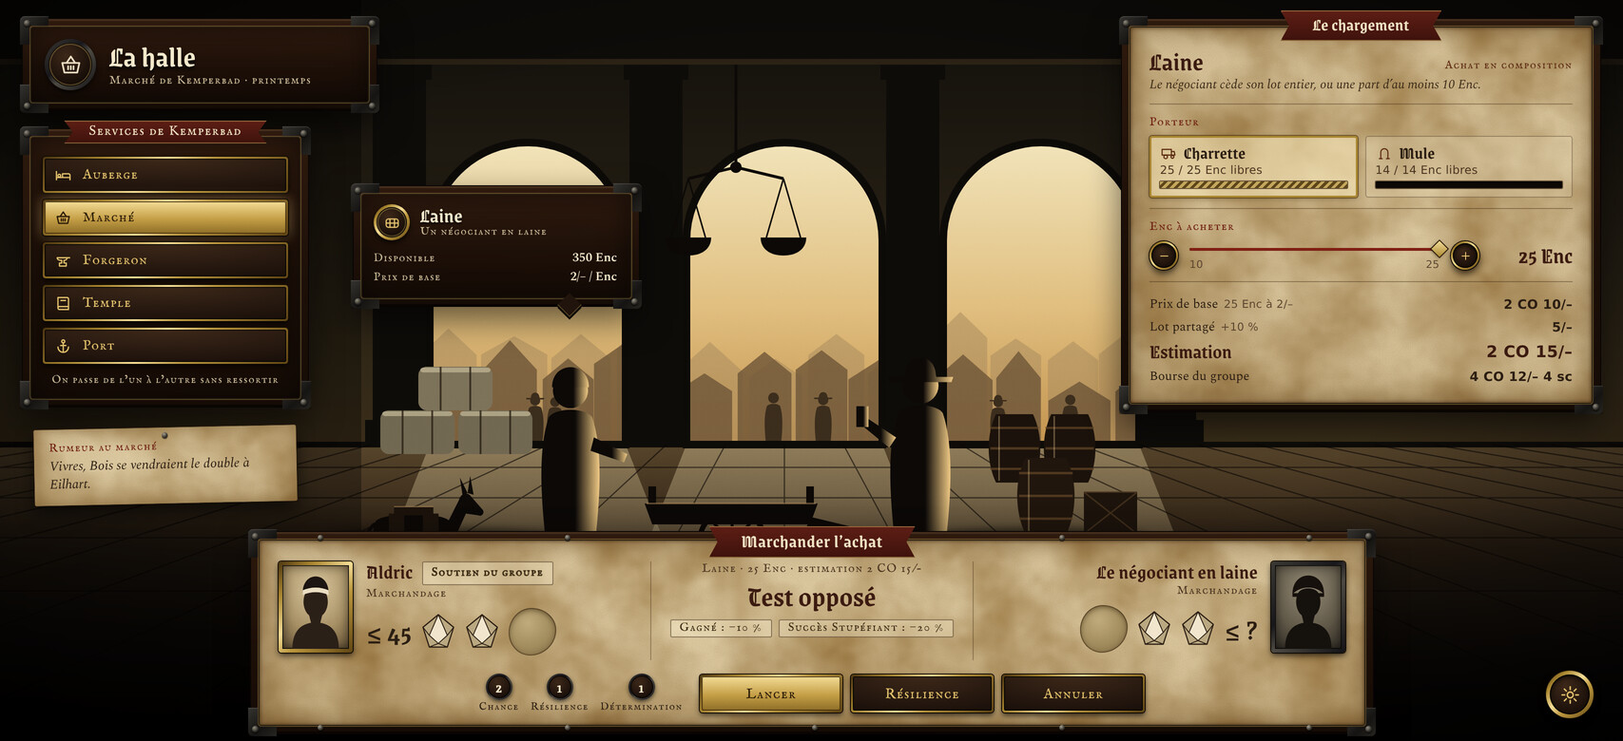
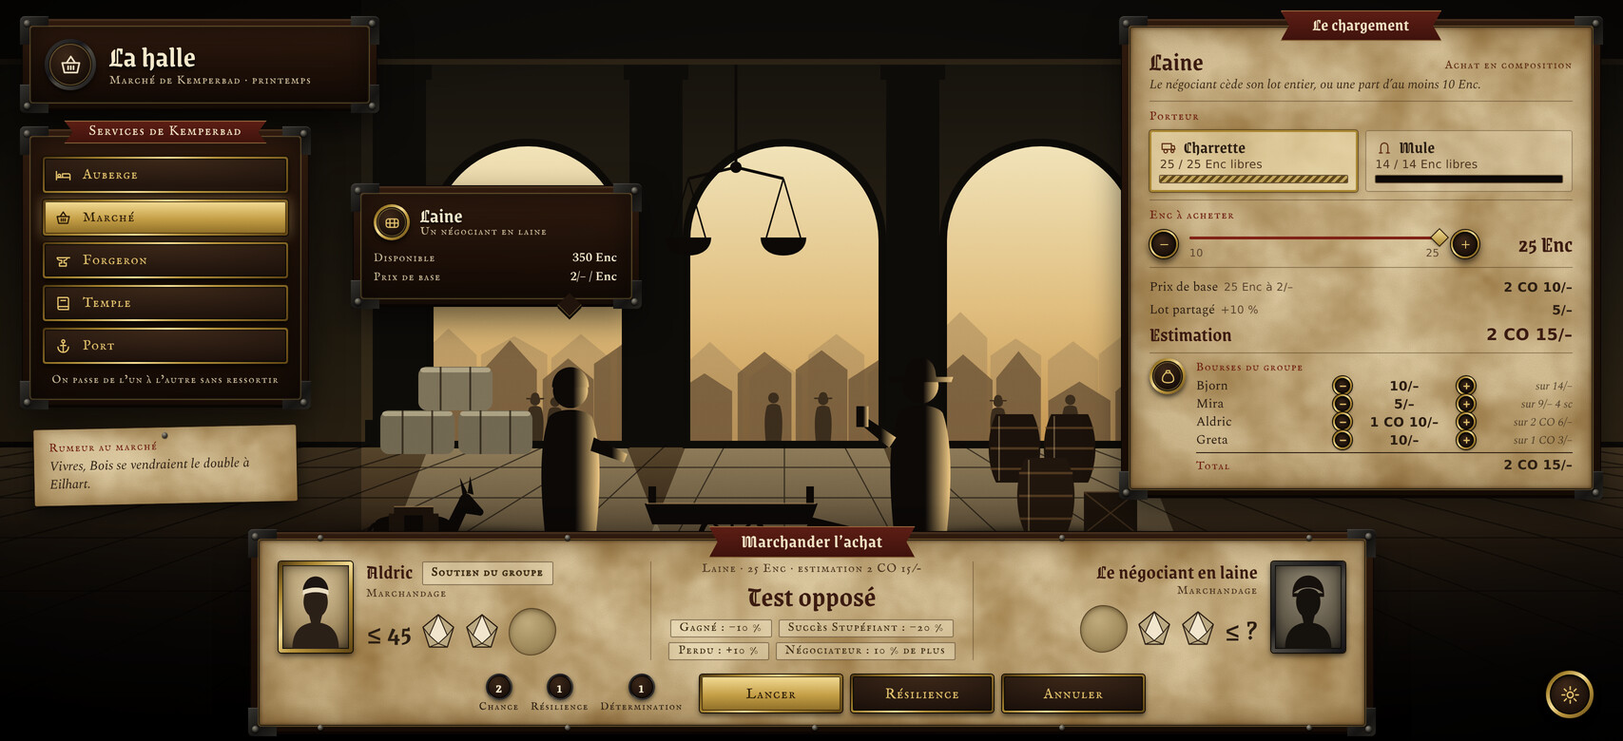
fix(godot): maquettes exploration, lieux et commerce alignées sur la règle et la bourse (refs #4411)
Claude-Session: https://claude.ai/code/session_01319Eij4YBDVrTGQVfomn4e

Changed region(s): [[0.6831, 0.1538, 0.9936, 0.7077], [0.4036, 0.8615, 0.5899, 0.8923]]

diff --git a/hotes/godot/cibles/propositions/sources/lieux-et-nuit/bivouac.js b/hotes/godot/cibles/propositions/sources/lieux-et-nuit/bivouac.js
@@ -1,4 +1,4 @@
-/* Le bivouac : la halte du soir en voyage. Chaque héros se pose sur un poste de la clairière. */
+/* Le bivouac : la halte du soir en voyage. Chaque héros règle son couchage et sa nourriture sur sa carte du bandeau. */
 rims('#e09a48', '#0b0806');
 grad('ciel', [[0, '#070a18'], [.38, '#121a3c'], [.74, '#2c3566'], [1, '#575a8c']]);
 grad('sol', [[0, '#24253a'], [.35, '#17161f'], [1, '#07060a']]);
@@ -70,7 +70,7 @@ el(G, 'path', { d: 'M632,580c10,0 14,6 14,14l-2,6l-14,0z', fill: '#a06a38' });
 el(G, 'ellipse', { cx: 556, cy: 586, rx: 11, ry: 8, fill: '#6a5038' });
 el(G, 'path', { d: 'M985,590L985,516M962,534L1008,534M985,516a9,9 0 1 0 .1,0', stroke: '#1a100a', 'stroke-width': 7, 'stroke-linecap': 'round', fill: '#1a100a' });
 el(G, 'path', { d: 'M981,590L981,520M962,531L984,531', stroke: '#c98a48', 'stroke-width': 1.6, opacity: .8 });
-// les héros à leur poste
+// les héros dans la clairière
 perso(G, 110, 566, 72, { pose: 'accroupi', coiffe: 'bonnet', fill: '#1b2242', vers: -1, extra: '<path d="M-26,0C-40,-8 -48,-22 -44,-40" stroke="#1b2242" stroke-width="2.500" fill="none"/>' });
 perso(G, 272, 414, 62, { coiffe: 'capuche', fill: '#080a14' });
 el(G, 'ellipse', { cx: 770, cy: 592, rx: 40, ry: 7, fill: '#000', opacity: .5, filter: 'url(#f2)' });
@@ -86,41 +86,18 @@ el(S, 'rect', { width: 520, height: 260, fill: 'url(#haut)', opacity: .5 });
 
 const pieces = [];
 pieces.push(titre({ icone: 'lune', nom: 'La halte du soir', sous: `14 Pflugzeit · troisième nuit · ${picto('flocon', 13, '#c9b995')} ciel clair, gel`, largeur: 436 }));
-pieces.push(`<div id="recit" data-piece="recit"><div class="r rubrique ombre">Dans le Reikwald, à l’écart du chemin</div><p class="ombre">La clairière est sèche et le bois mort ne manque pas. Reste à dire qui veille, qui chasse et qui dort.</p></div>`);
-const POSTES = [
-  [110, 400, { nom: 'Approvisionnement', sous: 'Survie en extérieur', heros: 'bjorn' }],
-  [272, 250, { nom: 'Plein air', sous: 'Survie en extérieur', heros: 'mira' }],
-  [440, 344, { nom: 'Monter un camp', sous: 'Survie ou Guérison', icone: 'tente' }],
-  [598, 476, { nom: 'Récupérer', sous: 'Une nuit de repos', icone: 'sommeil' }],
-  [760, 404, { nom: 'Établir des cartes', sous: 'Cartographe ou Dessin', heros: 'aldric' }],
-  [985, 414, { nom: 'Pratiquer une Compétence', sous: 'Au choix', icone: 'epee' }],
-  [1110, 284, { nom: 'Rester aux aguets', sous: 'Perception', icone: 'oeil', vise: true }],
-  [1222, 378, { nom: 'Recueillir des informations', sous: 'Route déserte', icone: 'bulle', ferme: true }],
-];
-pieces.push(`<div data-piece="postes">${POSTES.map((p) => poste(...p)).join('')}</div>`);
-pieces.push(`<div class="apercu parchemin vers-droite" style="left:748px;top:226px;width:270px;--pointe:74px">
-  <div class="tete"><span class="n gothique">Rester aux aguets</span><span class="c rubrique">Greta</span></div>
-  <table><tr><td>Perception</td><td>≤ 41</td></tr><tr><td>Difficulté</td><td>Intermédiaire</td></tr></table>
-  <div class="pied">Réussie, sa veille garde le groupe de toute surprise pendant l’Étape. Manquée, elle la laisse exténuée.</div>
-</div>`);
+pieces.push(`<div id="recit" data-piece="recit"><div class="r rubrique ombre">Dans le Reikwald, à l’écart du chemin</div><p class="ombre">La clairière est sèche et le bois mort ne manque pas.</p></div>`);
+/* `src/noyau/restFlow.ts:163` (couchage et pitance par héros), `:486-512` ; `docs/regles-optionnelles.md:256` */
 pieces.push(`<div id="camp" class="cadre bois" data-piece="campement"><div class="fond bois">
-  <div class="rang-c"><span class="lab rubrique">Abri</span>${plaque('Tente', { armee: true, icone: 'tente' })}${plaque('Belle étoile', { icone: 'lune' })}</div>
-  <div class="note-c">Quatre dormeurs côte à côte sous la toile.</div>
-  <div class="rang-c"><span class="lab rubrique">Couchage</span><div class="pips"><i></i><i></i><i></i><i class="vide"></i></div><span class="v">3 sacs de couchage <em>pour 4</em></span></div>
-  <div class="rang-c"><span class="lab rubrique">Vivres</span><div class="chiffre">9</div><span class="v">rations <em>· 4 mangées ce soir</em></span></div>
+  <div class="rang-c"><span class="lab rubrique">Abri</span>${medaillon('tente', { petit: true })}<span class="v">Tente <em>· quatre dormeurs sous la toile</em></span></div>
   <div class="rang-c" style="margin-bottom:0"><span class="lab rubrique">Temps</span>${sceau('flocon')}<span class="v">Gel cette nuit : il faudra tenir contre le froid.</span></div>
   <div class="filet"></div>
   <div class="t rubrique">Ce que la nuit jouera</div>
-  <div class="jouera">${pastille('tente')}Le campement<span class="rubrique">Survie en extérieur</span></div>
-  <div class="jouera">${pastille('feu')}Les activités du soir<span class="rubrique">une par héros</span></div>
-  <div class="jouera">${pastille('sommeil')}Le repos<span class="rubrique">Résistance</span></div>
+  <div class="jouera">${pastille('flocon')}Le froid<span class="rubrique">Résistance</span></div>
+  <div class="jouera">${pastille('sommeil')}Le repos<span class="rubrique">une nuit</span></div>
   ${plaque('Passer la nuit', { armee: true, icone: 'lune', classe: 'nuit' })}
 </div><div class="ruban rubrique">Le campement</div>${ferrures}</div>`);
-pieces.push(bandeau({
-  bjorn: { icone: 'arc', texte: 'pose ses collets à la lisière' },
-  mira: { icone: 'ciel', texte: 'lit le ciel et le vent pour demain' },
-  aldric: { icone: 'carte', texte: 'reporte la route sur le vélin' },
-  greta: { choisi: true, html: '<span class="attend rubrique">À poster dans le camp</span>' },
-}));
-pieces.push(retour('Lever le camp', 'route'), coins());
+const choix = (ration) => ({ html: `<div class="choix-h"><span class="rubrique">Couchage</span><b>Dehors</b></div><div class="choix-h"><span class="rubrique">Nourriture</span>${plaque('Ration', { armee: ration })}${plaque('Rien', { armee: !ration })}</div>` });
+pieces.push(bandeau({ bjorn: choix(true), mira: choix(true), aldric: choix(true), greta: choix(false) }));
+pieces.push(coins());
 monter(pieces);

diff --git a/hotes/godot/cibles/propositions/sources/lieux-et-nuit/interlude-en-ville.js b/hotes/godot/cibles/propositions/sources/lieux-et-nuit/interlude-en-ville.js
@@ -9,33 +9,31 @@ const LIEUX = [
   { x: 268, y: 524, icone: 'epee', nom: 'Le maître d’armes', quoi: 'Entraînement' },
 ];
 const pieces = [];
-pieces.push(titre({ icone: 'ville', nom: 'Bögenhafen', sous: 'Entre deux aventures · trois semaines', largeur: 400 }));
+pieces.push(titre({ icone: 'ville', nom: 'Bögenhafen', sous: 'Entre deux aventures', largeur: 400 }));
 pieces.push(`<div id="lieu" class="cadre bois" data-piece="lieu"><div class="fond bois">
   <h3 data-texte="lieu">Taverne d’Altstadt</h3>
   <div class="pnj">${portrait('hote')}<div><b>Le tenancier</b><p>Les bateliers parlent, pour peu qu’on paie la tournée.</p></div></div>
-  <div class="activite prise">${medaillon('bulle', { petit: true })}<div><b>Dernières nouvelles</b><span class="c rubrique">Ragot · une semaine</span><i>Une rumeur venue de loin, et une de plus par degré de réussite.</i></div></div>
-  <div class="activite">${medaillon('goutte', { petit: true })}<div><b>Semer la dissension</b><span class="c rubrique">Deux semaines</span><i>Monter le quartier contre un homme, une guilde ou le Guet.</i></div></div>
+  <div class="activite prise">${medaillon('bulle', { petit: true })}<div><b>Dernières nouvelles</b><span class="c rubrique">Ragot · une Activité</span><i>Une rumeur venue de loin, et une de plus par degré de réussite.</i></div></div>
+  <div class="activite">${medaillon('goutte', { petit: true })}<div><b>Semer la dissension</b><span class="c rubrique">Ragot, puis Charme · deux Activités</span><i>Monter le quartier contre un homme, une guilde ou le Guet.</i></div></div>
   ${plaque('Envoyer Mira à la taverne', { armee: true, icone: 'route', classe: 'envoyer' })}
   <div class="pied rubrique">Une activité par semaine, trois au plus</div>
 </div><div class="ruban rubrique">Altstadt</div>${ferrures}</div>`);
 pieces.push(`<div id="carte" class="cadre bois" data-piece="carte"><div class="fond parchemin"><svg viewBox="0 0 844 572" preserveAspectRatio="none"></svg>
   ${LIEUX.map((l) => `<div class="lieu bois ${l.choisi ? 'choisi' : ''}" style="left:${l.x}px;top:${l.y}px">${medaillon(l.icone, { petit: true, taille: 17 })}<div><b>${l.nom}</b><span class="rubrique">${l.quoi}</span></div>${l.heros ? portrait(l.heros) : ''}${l.fantome ? portrait(l.fantome, { classe: 'fantome' }) : ''}</div>`).join('')}
 </div>${ferrures}</div>`);
-const fait = (lieu, ok = true) => `<div class="case">${ok ? pastille('coche') : sceau('croix', 10)}<span class="rubrique">${lieu}</span></div>`;
-const ici = (lieu) => `<div class="case ici"><span class="rubrique">${lieu}</span></div>`;
-const libre = '<div class="case libre"></div>';
+/* LDB 22 l.5 ; LDB 23 l.5, l.15 ; `src/noyau/interludeEnVue.ts:48-52` */
+const restantes = (n) => `<div class="pips">${[0, 1, 2].map((k) => `<i class="${k < n ? '' : 'vide'}"></i>`).join('')}</div>`;
+const rang = (id, nom, evenement, n, choisi) => `${portrait(id, { classe: choisi ? 'choisi' : '' })}<div class="q"><b>${nom}</b><span class="rubrique">Événement · ${evenement}</span></div><div class="r">${restantes(n)}<span class="rubrique">${n} sur 3</span></div>`;
 pieces.push(`<div id="interlude" class="cadre bois" data-piece="interlude"><div class="fond bois">
-  <h3>Deuxième semaine</h3><div class="s rubrique">Chacun choisit où passer la sienne</div>
-  <div class="semaines">
-    <span></span><span class="tete rubrique">Semaine 1</span><span class="tete ici rubrique">Semaine 2</span><span class="tete rubrique">Semaine 3</span>
-    ${portrait('bjorn')}${fait('Les quais')}${ici('Les quais')}${libre}
-    ${portrait('mira', { classe: 'choisi' })}${fait('La forge')}<div class="case attend"><span class="rubrique">À envoyer</span></div>${libre}
-    ${portrait('aldric')}${fait('Comptoir')}${ici('Temple de Verena')}${libre}
-    ${portrait('greta')}${fait('Caserne', false)}${ici('Caserne du Guet')}${libre}
+  <h3>Activités restantes</h3><div class="s rubrique">Une par semaine, trois au plus</div>
+  <div class="rangs">
+    ${rang('bjorn', 'Bjorn', 'Profits abondants', 1)}
+    ${rang('mira', 'Mira', 'Rien à signaler', 2, true)}
+    ${rang('aldric', 'Aldric', 'Enchères ésotériques', 1)}
+    ${rang('greta', 'Greta', 'Festivités', 2)}
   </div>
   <div class="filet"></div>
   <div class="avis">${sceau('pieces', 13)}<span>À la reprise, les bourses seront vides : seul l’argent déposé au comptoir est gardé.</span></div>
-  ${plaque('Passer la semaine', { armee: true, icone: 'sablier', classe: 'passer' })}
 </div><div class="ruban rubrique">L’interlude</div>${ferrures}</div>`);
 pieces.push(bandeau({
   bjorn: { icone: 'ancre', texte: 'décharge les barges sur les quais' },

diff --git a/hotes/godot/cibles/propositions/sources/commerce/halle.js b/hotes/godot/cibles/propositions/sources/commerce/halle.js
@@ -5,6 +5,10 @@
 const ETAT = document.getElementById('ecran').dataset.etat;
 const COOP = ETAT === 'coop-la-main';
 const VENTE = ETAT === 'halle-vente', JET = ETAT.startsWith('marchandage'), AVANT = ETAT === 'marchandage-avant-le-de';
+const MARCHANDE = JET && !AVANT;
+/* #3004 : la cargaison est une entreprise commune, chacun règle sa part avant de conclure */
+const [bjorn, mira, aldric, greta] = HEROS;
+const PARTS = bourse({ parts: [[bjorn.nom, '10/–', bjorn.bourse], [mira.nom, '5/–', mira.bourse], [aldric.nom, MARCHANDE ? '1 CO 4/– 6 sc' : '1 CO 10/–', aldric.bourse], ['Greta', '10/–', greta.bourse]], total: MARCHANDE ? '2 CO 9/– 6 sc' : '2 CO 15/–' });
 sceneDeLaHalle({ charge: VENTE ? 3 : 0 });
 
 const pieces = [];
@@ -56,23 +60,23 @@ if (VENTE) {
     <table class="compte">
       <tr><td>Prix de base<span class="lin">25 Enc à 2/–</span></td><td class="lin">2 CO 10/–</td></tr>
       <tr><td>Lot partagé<span class="lin">+10 %</span></td><td class="lin">5/–</td></tr>
-      ${JET && !AVANT ? '<tr><td>Marchandage gagné<span class="lin">−10 %</span></td><td class="lin">−5/– 6 sc</td></tr>' : ''}
-      <tr class="total"><td>${JET && !AVANT ? 'Prix marchandé' : 'Estimation'}</td><td>${JET && !AVANT ? '2 CO 9/– 6 sc' : '2 CO 15/–'}</td></tr>
-      <tr><td>Bourse du groupe</td><td class="lin">4 CO 12/– 4 sc</td></tr>
+      ${MARCHANDE ? '<tr><td>Marchandage gagné<span class="lin">−10 %</span></td><td class="lin">−5/– 6 sc</td></tr>' : ''}
+      <tr class="total"><td>${MARCHANDE ? 'Prix marchandé' : 'Estimation'}</td><td>${MARCHANDE ? '2 CO 9/– 6 sc' : '2 CO 15/–'}</td></tr>
     </table>
+    ${PARTS}
     ${JET ? '' : COOP ? `${plaque('Conclure l’achat', { fermee: true, icone: 'balance', classe: 'conclure' })}
-    <div class="note refus">${sceau('reseau', 12)}<i data-texte="refus">L’hôte seul engage la bourse et la cale du groupe.</i></div>`
+    <div class="note refus">${sceau('reseau', 12)}<i data-texte="refus">L’hôte seul engage les bourses et la cale du groupe.</i></div>`
     : `${plaque('Conclure l’achat', { armee: true, icone: 'balance', classe: 'conclure' })}
     <div class="note"><i>Le Marchandage se joue à la conclusion, contre le négociant.</i></div>`}
   </div><div class="ruban gothique">Le chargement</div>${ferrures}</div>`);
 }
 
 if (JET) {
-  const aldric = HEROS.find((h) => h.id === 'aldric');
-  const negociant = { cote: 'droite', portrait: portrait('drapier'), nom: 'Le négociant en laine', carac: 'Marchandage', seuil: '?' };
+    const negociant = { cote: 'droite', portrait: portrait('drapier'), nom: 'Le négociant en laine', carac: 'Marchandage', seuil: '?' };
+  /* MSRC 13 l.127 ; LDB 59 l.43 ; `src/noyau/landMarketFlow.ts:325` */
   pieces.push(bandeauDuJet('Marchander l’achat', '', AVANT ? `
     ${camp({ portrait: portrait('aldric'), nom: 'Aldric', carac: 'Marchandage', seuil: 45, modif: 'Soutien du groupe' })}
-    ${reglages('Laine · 25 Enc · estimation 2 CO 15/–', '<div class="dr gothique">Test opposé</div><div class="enjeux"><span class="modif rubrique">Gagné : −10 %</span><span class="modif rubrique">Succès Stupéfiant : −20 %</span></div>')}
+    ${reglages('Laine · 25 Enc · estimation 2 CO 15/–', '<div class="dr gothique">Test opposé</div><div class="enjeux"><span class="modif rubrique">Gagné : −10 %</span><span class="modif rubrique">Succès Stupéfiant : −20 %</span><span class="modif rubrique">Perdu : +10 %</span><span class="modif rubrique">Négociateur : 10 % de plus</span></div>')}
     ${camp(negociant)}` : `
     ${camp({ portrait: portrait('aldric'), nom: 'Aldric', carac: 'Marchandage', seuil: 45, des: ['20', '7'], total: 27, dr: '+2', reussite: true, verdict: 'Réussite' })}
     <div id="verdict"><div class="sous rubrique" data-texte="sous-titre">Laine · 25 Enc</div><div class="dr gothique">DR net +4</div>

diff --git a/hotes/godot/cibles/propositions/sources/lieux-et-nuit/services-du-lieu-medecin.js b/hotes/godot/cibles/propositions/sources/lieux-et-nuit/services-du-lieu-medecin.js
@@ -81,21 +81,17 @@ pieces.push(`<div id="docteur" class="hote cadre bois" data-piece="docteur"><div
   <div class="tete">${medaillon('soin', { petit: true })}<div><div class="n gothique" data-texte="docteur">Le docteur de la guilde</div><div class="s rubrique">Docteur en médecine · Guérison 62</div></div></div>
   <p>Asseyez-vous sous la fenêtre et montrez-moi cela. Et ne bougez plus.</p>
 </div><i class="pointe" style="left:152px;bottom:-8px"></i>${ferrures}</div>`);
-const onglet = (id, nom, actif) => `<div class="onglet ${actif ? 'actif' : ''}">${portrait(id)}<span class="rubrique">${nom}</span></div>`;
+/* LDB 75 l.19 ; `src/noyau/medicFlow.ts:182`, `src/noyau/acteDeSoin.ts:30-36` ; #3004. Le patient se choisit au bandeau. */
 pieces.push(`<div id="soins" class="page cadre bois" data-piece="soins"><div class="fond parchemin">
-  <div class="onglets">${onglet('bjorn', 'Bjorn')}${onglet('mira', 'Mira')}${onglet('aldric', 'Aldric')}${onglet('greta', 'Greta', 1)}</div>
   <div class="patient"><div class="etat"><div class="l"><h3 data-texte="patient">Greta Hartmann</h3><span class="sous rubrique">Blessures <span class="lin">8 / 14</span></span></div><div class="vie"><i style="width:57%"></i></div></div></div>
   <div class="mal">${sceau('goutte', 12)}<span>Cuisse lacérée, jambe gauche : la plaie attend d’être recousue.</span></div>
   <div class="filet"></div>
   <div class="soin pris"><div class="ic">${picto('soin', 19, '#5a2a12')}</div><div class="t"><b>Panser les Blessures</b><span class="c">Guérison</span><i>Lui rend le Bonus d’Intelligence du docteur, plus ses degrés de réussite.</i></div><span class="px lin">5/–</span></div>
-  <div class="soin"><div class="ic">${picto('scalpel', 19, '#5a2a12')}</div><div class="t"><b>Recoudre la cuisse lacérée</b><span class="c">Chirurgie</span><i>Longue opération : chaque passe lui coûte 1d10 Blessures et une Hémorragie.</i></div><span class="px lin">15/–</span></div>
+  <div class="soin"><div class="ic">${picto('scalpel', 19, '#5a2a12')}</div><div class="t"><b>Recoudre la cuisse lacérée</b><span class="c">Chirurgie</span><i>Longue opération : chaque passe lui coûte 1d10 Blessures et une Hémorragie.</i></div><span class="px lin">15/–<small>valeur maison</small></span></div>
   <div class="filet"></div>
-  <table class="compte">
-    <tr class="total"><td>À payer</td><td>5/–</td></tr>
-    <tr><td>Bourse de Greta</td><td class="lin">1 CO 3/–</td></tr>
-    <tr><td>Il lui restera</td><td class="lin">18/–</td></tr>
-  </table>
-  ${plaque('Payer le docteur', { armee: true, icone: 'bourse', classe: 'payer' })}
+  <table class="compte"><tr class="total"><td>À payer</td><td>5/–</td></tr></table>
+  ${bourse({ heros: 'Greta', avoir: '1 CO 3/–' })}
+  ${plaque('Payer et soigner', { armee: true, icone: 'bourse', classe: 'payer' })}
 </div><div class="ruban gothique">Les soins du docteur</div>${ferrures}</div>`);
 pieces.push(bandeau({ greta: { choisi: true, mal: true, icone: 'goutte', texte: 'Cuisse lacérée, à recoudre' } }, { bourses: true }));
 pieces.push(retour('Retour au quartier'), coins());

diff --git a/hotes/godot/cibles/propositions/sources/lieux-et-nuit/nuit-a-l-auberge.js b/hotes/godot/cibles/propositions/sources/lieux-et-nuit/nuit-a-l-auberge.js
@@ -107,25 +107,22 @@ fermer();
 el(S, 'rect', { width: 560, height: H, fill: '#000', opacity: .28 });
 
 const pieces = [];
-pieces.push(titre({ icone: 'lit', nom: 'La Fin du Voyage', sous: 'Bonne auberge · Teuerberg, Bögenhafen · le soir', largeur: 446 }));
-const P = (libelle, armee) => plaque(libelle, { armee });
+pieces.push(titre({ icone: 'lit', nom: 'La Fin du Voyage', sous: 'Auberge · Teuerberg, Bögenhafen · le soir', largeur: 446 }));
+/* LDB 66 l.5, l.12-16, l.28 ; `src/noyau/restFlow.ts:567-575`, `:692` ; #3004 */
+const offre = (icone, nom, sous, prix, prise) => `<span class="l rubrique">${picto(icone, 17)}${nom}</span><span class="q rubrique">${sous}</span>${plaque(prix, { armee: prise })}`;
+const NOTE = '6/–';
 pieces.push(`<div id="nuit" class="cadre bois" data-piece="la nuit"><div class="fond bois">
   <div class="tete">${medaillon('chope', { petit: true })}<div><div class="n gothique" data-texte="hôte">Odelina Landau</div><div class="s rubrique">L’aubergiste</div></div></div>
-  <div class="dit">Un lit chaud, un bon repas et pas de questions : c’est tout ce qu’on demande ici.</div>
+  <div class="dit">Un lit chaud, un bon repas et pas de questions.</div>
   <div class="grille">
-    <span></span><span class="q rubrique">Piètre</span><span class="q rubrique">Courante</span><span class="q rubrique">Grande</span>
-    <span class="l rubrique">${picto('lit', 17)}Chambre commune</span>${P('5 sc')}${P('10 sc')}${P('20 sc')}
-    <span class="l rubrique">${picto('cle', 17)}Chambre privée</span>${P('5/–')}${P('10/–', true)}${P('20/–')}
-    <span class="l rubrique">${picto('bol', 17)}Repas</span>${P('6 sc')}${P('1/–', true)}${P('2/–')}
+    ${offre('lit', 'Chambre commune', 'par tête', '10 sc')}
+    ${offre('cle', 'Chambre privée', '2 lits', '10/–')}
+    ${offre('cle', 'Grande chambre', '4 lits', '20/–', true)}
+    ${offre('bol', 'Repas', 'par tête', '1/–', true)}
   </div>
-  <div class="renvoi">${sceau('goutte', 11)}<span>Piètre chère : une chance sur dix d’y prendre la Courante galopante. En chambre commune, gare aux voleurs.</span></div>
+  <div class="chambree"><span class="rubrique">Grande chambre</span>${HEROS.map((h) => portrait(h.id)).join('')}<i>4 lits sur 4</i></div>
   <div class="filet"></div>
-  <table>
-    <tr><td>2 chambres privées, à deux par chambre</td><td>20/–</td></tr>
-    <tr><td>4 repas</td><td>4/–</td></tr>
-    <tr class="total"><td>La note</td><td>1 CO 4/–</td></tr>
-    <tr class="reste"><td>Bourse du groupe</td><td>5 CO 6/–</td></tr>
-  </table>
+  ${bourse({ parts: HEROS.map((h) => [h.nom.split(' ')[0], NOTE, h.bourse]), total: '1 CO 4/–' })}
   ${plaque('Passer la nuit', { armee: true, icone: 'lune', classe: 'nuit' })}
 </div>${ferrures}</div>`);
 const POSTES = [

diff --git a/hotes/godot/cibles/propositions/sources/lieux-et-nuit/interlude-en-ville.css b/hotes/godot/cibles/propositions/sources/lieux-et-nuit/interlude-en-ville.css
@@ -29,16 +29,14 @@
 #interlude .fond{padding:22px 16px 14px}
 #interlude h3{margin:-4px 0 -3px;font-family:"Grenze Gotisch";font-weight:600;font-size:23px;line-height:32px;color:#f4e8ca;text-shadow:0 1px 2px #000}
 #interlude .s{font-size:12px;color:var(--creme-2)}
-.semaines{display:grid;grid-template-columns:44px repeat(3,1fr);gap:7px 6px;align-items:center;margin-top:11px}
-.semaines .tete{text-align:center;font-size:11.5px;color:var(--creme-2)}
-.semaines .tete.ici{color:var(--or)}
-.semaines .portrait{width:38px;height:46px;padding:2px}
-.case{height:46px;border-radius:3px;display:flex;flex-direction:column;align-items:center;justify-content:center;gap:2px;background:rgba(0,0,0,.3);box-shadow:inset 0 0 0 1px rgba(201,185,149,.22);font-size:10.5px;color:#e2d5b6;text-align:center;line-height:12px}
-.case .pst,.case .sceau{width:18px;height:18px}
-.case.ici{box-shadow:inset 0 0 0 1px rgba(226,192,106,.7)}
-.case.libre{background:none;box-shadow:none;border:1px dashed rgba(201,185,149,.3)}
-.case.attend{background:linear-gradient(180deg,#f3dc93,#c39c44);color:#2a1a08;box-shadow:0 0 0 1px #150d04,0 0 12px rgba(255,214,140,.5)}
+.rangs{display:grid;grid-template-columns:44px 1fr auto;gap:9px 10px;align-items:center;margin-top:12px}
+.rangs .portrait{width:38px;height:46px;padding:2px}
+.rangs .q b{display:block;font-family:"Grenze Gotisch";font-weight:600;font-size:18px;line-height:22px;letter-spacing:.3px;color:#f4e8ca}
+.rangs .q span{display:block;font-size:11px;color:var(--creme-2);white-space:nowrap}
+.rangs .r{text-align:right}
+.rangs .r span{display:block;margin-top:6px;font-size:11px;color:var(--or);white-space:nowrap}
+.pips{display:flex;gap:7px;padding:0 3px;justify-content:flex-end}
+.pips i{width:11px;height:11px;transform:rotate(45deg);background:linear-gradient(135deg,#f0e4c6,#b9a57b);box-shadow:0 0 0 1px #1a1005,0 1px 2px rgba(0,0,0,.8)}
+.pips i.vide{background:#120b07;box-shadow:0 0 0 1px rgba(201,185,149,.4),inset 0 1px 2px #000}
 #interlude .filet{height:1px;background:linear-gradient(90deg,rgba(201,185,149,0),rgba(201,185,149,.45),rgba(201,185,149,0));margin:13px 0 10px}
 #interlude .avis{display:flex;gap:10px;align-items:flex-start;font-style:italic;font-size:12.5px;line-height:16.5px;color:#e6dabd}
-#interlude .plaque.passer{height:44px;margin-top:13px}
-#interlude .plaque.passer>div{font-size:16.5px}

diff --git a/hotes/godot/cibles/propositions/sources/lieux-et-nuit/nuit-a-l-auberge.css b/hotes/godot/cibles/propositions/sources/lieux-et-nuit/nuit-a-l-auberge.css
@@ -4,20 +4,18 @@
 #nuit .n{font-size:22px;line-height:30px;margin:-4px 0 -5px;color:#f4e8ca;text-shadow:0 1px 2px #000;white-space:nowrap}
 #nuit .s{font-size:11.5px;color:var(--creme-2)}
 #nuit .dit{margin:7px 0 9px;font-style:italic;font-size:13.5px;line-height:18px;color:#e6dabd}
-.grille{display:grid;grid-template-columns:152px repeat(3,1fr);gap:6px 7px;align-items:center}
-.grille .q{text-align:center;font-size:12px;color:var(--or)}
+.grille{display:grid;grid-template-columns:1fr auto 96px;gap:5px 12px;align-items:center}
+.grille .q{font-size:11.5px;color:var(--creme-2);white-space:nowrap}
 .grille .l{display:flex;align-items:center;gap:8px;font-size:12.5px;color:#eadfc4;white-space:nowrap}
-.grille .plaque{height:32px}
+.grille .plaque{height:30px}
 .grille .plaque>div{font-family:"Open Sans","Noto Sans","DejaVu Sans",Arial,sans-serif;font-size:12.5px;font-weight:600;letter-spacing:.2px;padding:0 4px}
-.renvoi{display:flex;gap:9px;align-items:flex-start;margin-top:9px;font-style:italic;font-size:12.5px;line-height:16px;color:var(--creme-2)}
-.renvoi .sceau{width:20px;height:20px}
-.renvoi .pst{width:20px;height:20px}
+.chambree{display:flex;align-items:center;gap:6px;margin-top:9px;font-size:12.5px;color:var(--or)}
+.chambree .rubrique{margin-right:auto}
+.chambree .portrait{width:28px;height:34px;padding:2px}
+.chambree i{margin-left:6px;font-size:12.5px;color:var(--creme-2)}
+#nuit .qui-paie{color:#eadfc4}
+#nuit .qui-paie .rubrique{font-size:12px;color:var(--creme-2)}
+#nuit .qui-paie .part{height:19px;font-size:13.5px}
 #nuit .filet{height:1px;background:linear-gradient(90deg,rgba(201,185,149,0),rgba(201,185,149,.45),rgba(201,185,149,0));margin:10px 0 7px}
-#nuit table{width:100%;border-collapse:collapse;font-size:13px;color:#eadfc4}
-#nuit td{padding:1px 0}
-#nuit td:last-child{text-align:right;white-space:nowrap;font-family:"Open Sans","Noto Sans","DejaVu Sans",Arial,sans-serif;font-size:12.5px}
-#nuit tr.total td{font-family:"Grenze Gotisch";font-weight:600;font-size:20px;line-height:26px;color:#f4e8ca}
-#nuit tr.total td:last-child{font-family:"Open Sans","Noto Sans","DejaVu Sans",Arial,sans-serif;font-size:16px;font-weight:600;color:var(--or)}
-#nuit tr.reste td{color:var(--creme-2);font-size:12px}
 #nuit .plaque.nuit{height:42px;margin-top:9px}
 #nuit .plaque.nuit>div{font-size:16.5px}

diff --git a/hotes/godot/cibles/propositions/sources/exploration-et-recit/recit.js b/hotes/godot/cibles/propositions/sources/exploration-et-recit/recit.js
@@ -14,8 +14,9 @@ Object.assign(PICTOS, {
   lettre: '<path d="M4 6h16v12H4zM4 7l8 6 8-6"/>',
   de: '<path d="M12 3l8 6-3 11H7L4 9zM12 3l4 9-4 4-4-4zM4 9l4 3M20 9l-4 3M12 16v4"/>',
 });
-const groupe = () => `<div id="groupe" data-piece="groupe">${HEROS.map((h) => `
-  <div class="rang ${h.id === 'mira' ? 'mene' : ''}">${portrait(h.id)}<div><div class="nom ${h.id === 'mira' ? '' : 'rubrique'} ombre">${h.nom}</div>
+/* `role` : ce que la colonne dit du héros éclairé ; au dialogue, un clic sur un autre portrait change le testeur */
+const groupe = (role = '') => `<div id="groupe" data-piece="groupe">${HEROS.map((h) => `
+  <div class="rang ${h.id === 'mira' ? 'mene' : ''}">${portrait(h.id)}<div><div class="nom ${h.id === 'mira' ? '' : 'rubrique'} ombre">${h.nom}</div>${h.id === 'mira' && role ? `<div class="role rubrique ombre">${role}</div>` : ''}
     <div class="ligne"><div class="vie"><i style="width:${100 * h.pv / h.max}%"></i></div><span class="pv ombre">${h.pv} / ${h.max}</span></div></div></div>`).join('')}</div>`;
 const chronique = (lignes, classe = '', style = '') => `<div id="chronique" class="${classe}" style="${style}" data-piece="chronique"><div class="tete rubrique ombre">Chronique</div>${lignes.map(([g, t]) => `<p class="${g} ombre">${t}</p>`).join('')}</div>`;
 const marque = (x, y, icone) => `<div class="marque" style="left:${x}px;top:${y}px">${medaillon(icone, { petit: true, taille: 17 })}</div>`;
@@ -39,7 +40,7 @@ if (ETAT === 'exploration') {
 
 if (ETAT === 'dialogue' || ETAT === 'jet-de-competence') {
   sceneAuberge({ groupe: 'comptoir', parle: true, colonne: true });
-  pieces.push(LIEU, groupe(), `<div id="systeme" data-piece="systeme">${rond('systeme', 22, { couleur: '#c9b995' })}</div>`);
+  pieces.push(LIEU, groupe(ETAT === 'dialogue' ? 'Portera le Test' : ''), `<div id="systeme" data-piece="systeme">${rond('systeme', 22, { couleur: '#c9b995' })}</div>`);
 }
 if (ETAT === 'dialogue') {
   const reponse = (n, texte, { annonce, cout, visee } = {}) => `<div class="reponse laiton ${visee ? 'visee' : ''}"><div><b>${n}</b>${annonce ? `<span class="annonce">${picto('de', 14, '#2a1a08', 1.7)}${annonce}</span>` : ''}<span data-texte="réponse ${n}">${texte}</span>${cout ? `<span class="cout lin">${cout}</span>` : ''}</div></div>`;

diff --git a/hotes/godot/cibles/propositions/sources/lieux-et-nuit/bivouac.css b/hotes/godot/cibles/propositions/sources/lieux-et-nuit/bivouac.css
@@ -2,16 +2,16 @@
 #camp .fond{padding:24px 16px 14px}
 .rang-c{display:flex;align-items:center;gap:10px;margin-bottom:10px}
 .rang-c .lab{flex:none;width:76px;font-size:12.5px;color:var(--creme-2)}
-.rang-c .plaque{height:36px}
-.rang-c .plaque>div{font-size:14px;gap:7px}
 .rang-c .v{font-size:13.5px;color:#eadfc4;line-height:17px}
 .rang-c .v em{color:var(--creme-2)}
-.note-c{margin:-3px 0 11px 86px;font-style:italic;font-size:12.5px;line-height:16px;color:var(--creme-2)}
-.pips{display:flex;gap:7px;padding:0 3px}
-.pips i{width:12px;height:12px;transform:rotate(45deg);background:linear-gradient(135deg,#f0e4c6,#b9a57b);box-shadow:0 0 0 1px #1a1005,0 1px 2px rgba(0,0,0,.8)}
-.pips i.vide{background:#120b07;box-shadow:0 0 0 1px rgba(201,185,149,.4),inset 0 1px 2px #000}
-.chiffre{flex:none;width:30px;height:30px;display:grid;place-items:center;border-radius:3px;background:#120b07;box-shadow:0 0 0 1px rgba(201,185,149,.4),inset 0 1px 3px #000;font-family:"Grenze Gotisch";font-weight:600;font-size:21px;color:#f3e6c6}
 #camp .filet{height:1px;background:linear-gradient(90deg,rgba(201,185,149,0),rgba(201,185,149,.45),rgba(201,185,149,0));margin:13px 0 9px}
 #camp .t{font-size:12.5px;color:var(--or);margin-bottom:7px}
 #camp .plaque.nuit{height:44px;margin-top:12px}
 #camp .plaque.nuit>div{font-size:16.5px}
+.rang-c .medaillon{width:30px;height:30px;padding:2px}
+.choix-h{display:flex;align-items:center;gap:6px;margin-top:6px;font-size:12.5px;color:#eadfc4}
+.choix-h .rubrique{flex:none;width:64px;font-size:11px;color:var(--creme-2)}
+.choix-h b{font-weight:400}
+.choix-h .plaque{height:24px}
+.choix-h .plaque{flex:none}
+.choix-h .plaque>div{font-size:11.5px;letter-spacing:.6px;padding:0 7px}

diff --git a/hotes/godot/cibles/propositions/sources/commerce/commerce.css b/hotes/godot/cibles/propositions/sources/commerce/commerce.css
@@ -95,7 +95,7 @@
 .camp .issue b{text-transform:none}
 .modif{margin-top:0;white-space:nowrap}
 #verdict .sous,#verdict .dr{white-space:nowrap}
-#verdict .enjeux{display:flex;justify-content:center;gap:7px;margin-top:7px}
+#verdict .enjeux{display:flex;flex-wrap:wrap;justify-content:center;gap:5px 7px;margin-top:7px}
 #verdict .prix{display:flex;justify-content:center;align-items:baseline;gap:10px;margin-top:3px;font-size:14px;color:#2a1d12;white-space:nowrap}
 #verdict .prix s{color:#6a5236}
 #verdict .prix b{font-weight:600}
@@ -110,3 +110,9 @@
 .heros .attend.autre{background:linear-gradient(180deg,#3a3630,#1e1c18);color:#cfc5ae;box-shadow:0 0 0 1px #000,0 2px 4px rgba(0,0,0,.6)}
 #page .note.refus{display:flex;align-items:center;gap:8px;color:#6b1c10}
 #page .note.refus .sceau{flex:none;width:22px;height:22px}
+/* les parts de l'achat, sous le compte */
+#page .qui-paie{margin-top:5px;padding-top:5px;border-top:1px solid rgba(60,40,20,.42);color:#2a1d12}
+#page .qui-paie .rubrique{font-size:12px;color:#6b1c10}
+#page .qui-paie .part{height:19px;font-size:13.5px}
+#page[data-piece="chargement"] .filet{margin:8px 0}
+#page .qui-paie .part .moins-plus b{min-width:98px}

diff --git a/hotes/godot/cibles/propositions/sources/lieux-et-nuit/services-du-lieu-medecin.css b/hotes/godot/cibles/propositions/sources/lieux-et-nuit/services-du-lieu-medecin.css
@@ -1,5 +1,5 @@
 #soins{left:1180px;top:20px;width:503px;height:590px}
-#soins .patient{display:flex;align-items:center;gap:12px;margin-top:13px}
+#soins .patient{display:flex;align-items:center;gap:12px}
 #soins .patient .etat{flex:1}
 #soins .patient .l{display:flex;justify-content:space-between;align-items:baseline}
 #soins .patient .vie{height:7px;margin-top:5px}
@@ -9,3 +9,7 @@
 #soins .plaque.payer{height:44px;margin-top:12px}
 #soins .plaque.payer>div{font-size:16.5px}
 #docteur{left:800px;top:292px;width:322px}
+#soins .soin .px{text-align:right}
+#soins .soin .px small{display:block;font-family:"Fell SC";font-weight:400;font-size:10.5px;letter-spacing:.8px;color:#6b1c10}
+#soins .qui-paie{margin-top:8px;color:#2a1d12}
+#soins .qui-paie .rubrique{color:#5a2a12}

diff --git a/hotes/godot/cibles/propositions/sources/exploration-et-recit/carte.css b/hotes/godot/cibles/propositions/sources/exploration-et-recit/carte.css
@@ -15,7 +15,7 @@
 .lieu.sous::after{bottom:auto;top:-6px;box-shadow:-1px -1px 0 #0c0705}
 #trajet{left:24px;top:136px;width:400px;height:474px}
 #trajet .fond{padding:22px 16px 0}
-#trajet h3{margin:-4px 0 -3px;font-family:"Grenze Gotisch";font-weight:600;font-size:28px;line-height:38px;color:#f4e8ca;text-shadow:0 1px 2px #000;white-space:nowrap}
+#trajet h3{margin:-6px 0 -5px;font-family:"Grenze Gotisch";font-weight:600;font-size:28px;line-height:42px;color:#f4e8ca;text-shadow:0 1px 2px #000;white-space:nowrap}
 #trajet .s{font-size:12px;color:var(--or)}
 #trajet>.fond>p{margin:6px 0 0;font-style:italic;font-size:13.5px;line-height:18px;color:#e6dabd}
 .etapes{display:flex;align-items:flex-start;margin:13px 2px 0}
